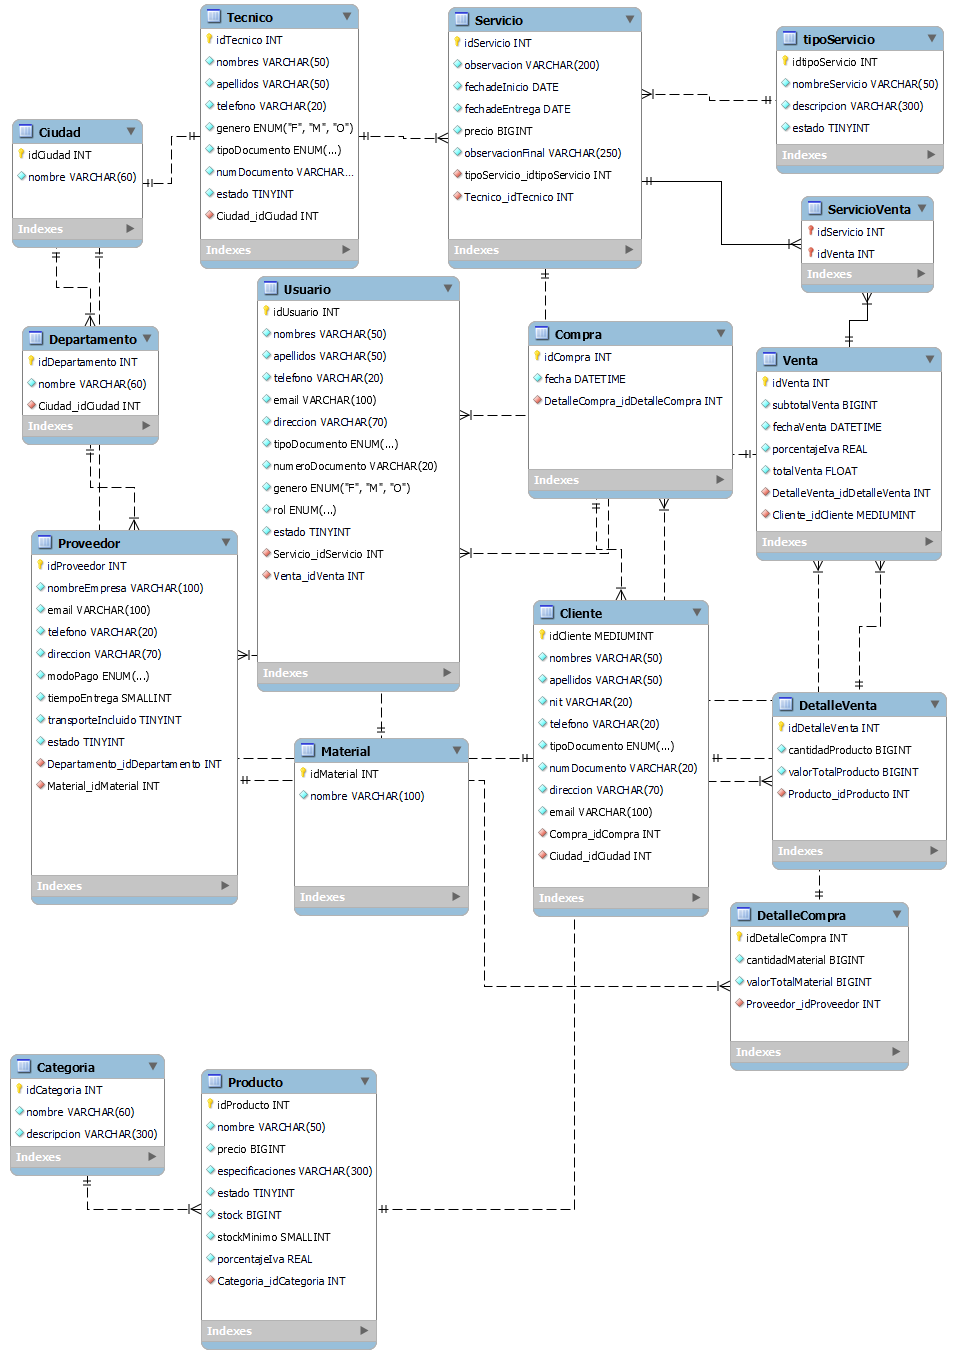
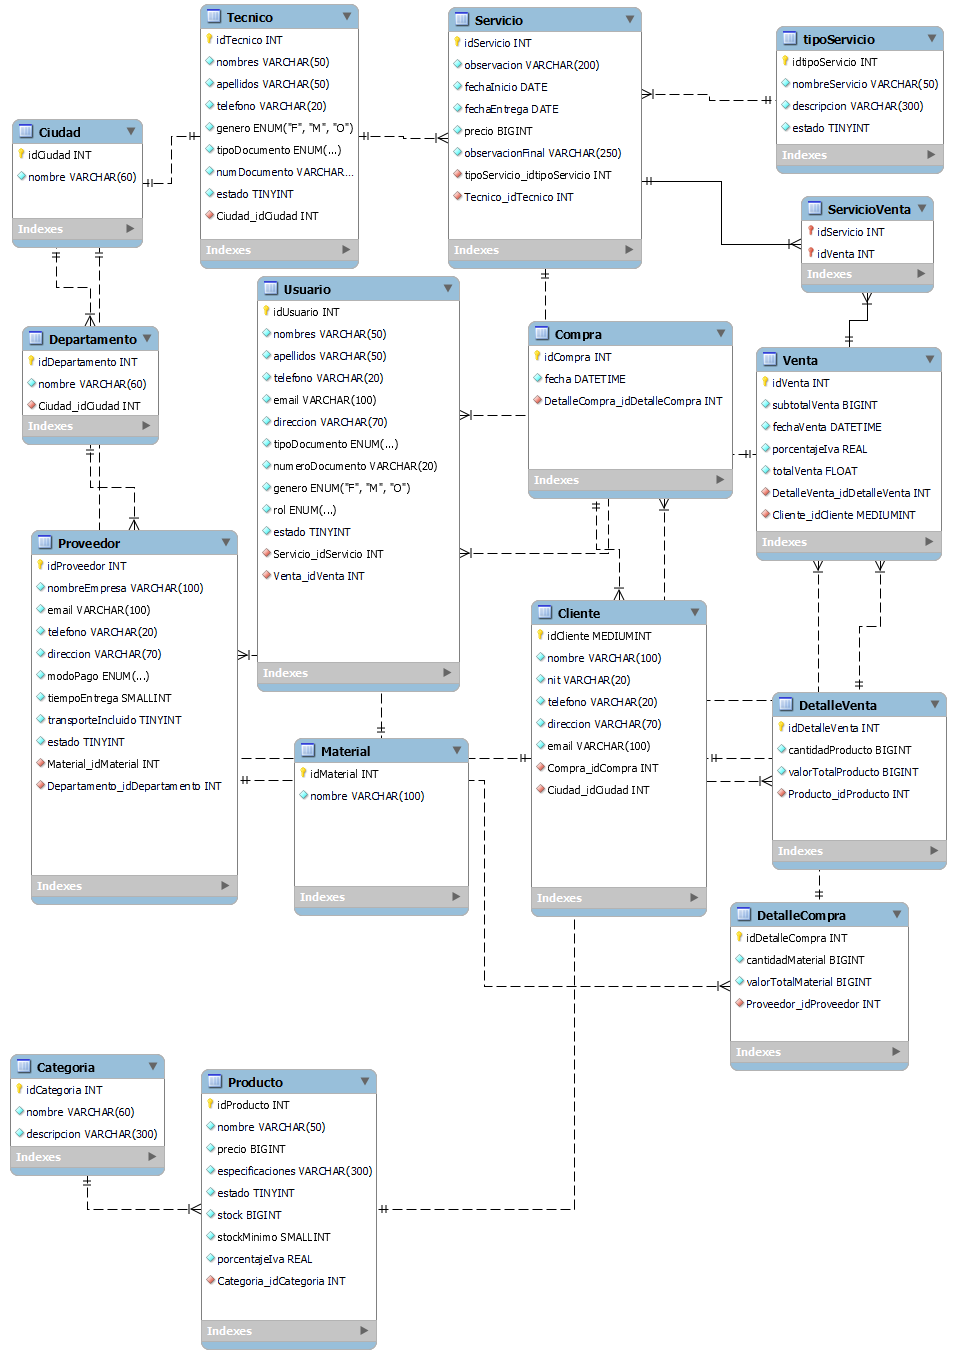
ajustes

Changed region(s): [[0.546, 0.4308, 0.7584, 0.6769], [0.0303, 0.5538, 0.2427, 0.5846], [0.5157, 0.0615, 0.6067, 0.0923]]

diff --git a/clientes/models.py b/clientes/models.py
@@ -8,19 +8,11 @@ class Ciudad(models.Model):
     nombre= models.CharField(max_length=60, verbose_name="Ciudad")
     
 class Cliente(models.Model):
-    nombres= models.CharField(max_length=50, verbose_name="Nombres")
-    apellidos= models.CharField(max_length=50, verbose_name="Apellidos")
+    nombre= models.CharField(max_length=100, verbose_name="Nombre")
     nit= models.CharField(unique=True, max_length=20, verbose_name="NIT")
     telefono=models.CharField(max_length=20, verbose_name="Teléfono")
     direccion=models.CharField(max_length=70, verbose_name="Dirección")
     email=models.CharField(max_length=100, verbose_name="Correo Electrónico")
-    class TipoDocumento(models.Model):
-        CC='CC', _('Cédula de Ciudadanía')
-        CE='CE', _('Cédula de Extranjería')
-        PP='PP', _('Pasaporte')    
-        OT='OT', _('Otro') 
-    tipoDocumento=models.CharField(max_length=4, choices=TipoDocumento.CC, verbose_name="Tipo de Documento")
-    numDocumento= models.CharField(unique=True, max_length=20, verbose_name="Número de Documento")
     ciudad = models.ForeignKey(Ciudad, on_delete=models.CASCADE, verbose_name="Ciudad")
     compra = models.ForeignKey(Compra, on_delete=models.CASCADE, verbose_name="Compra")
     
